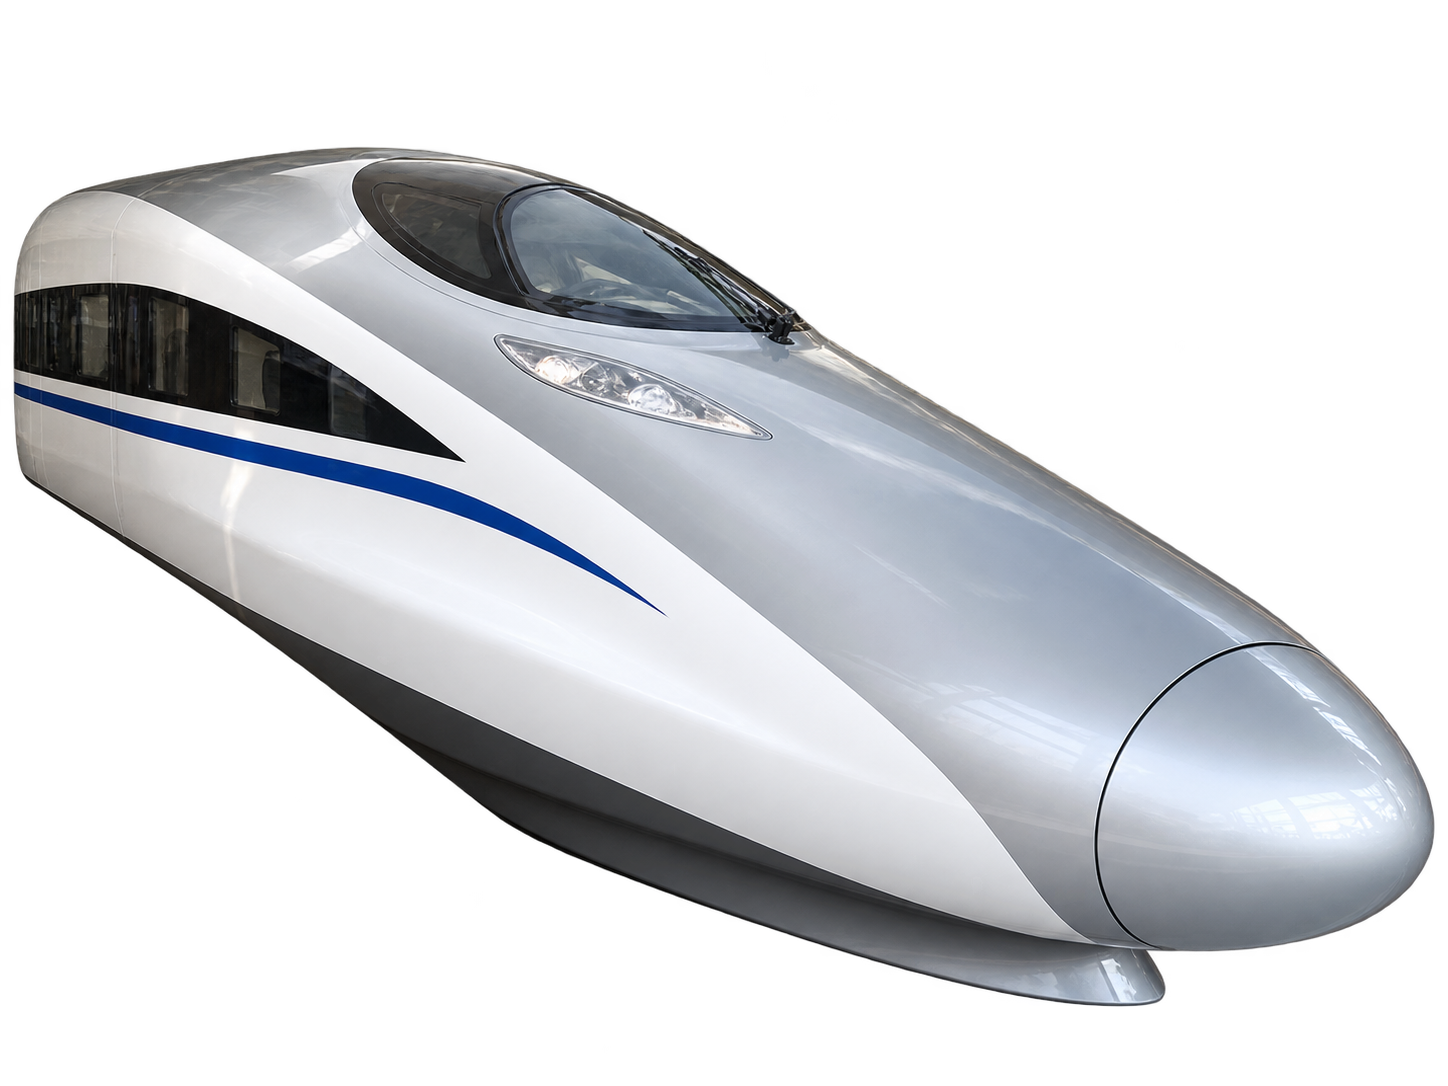
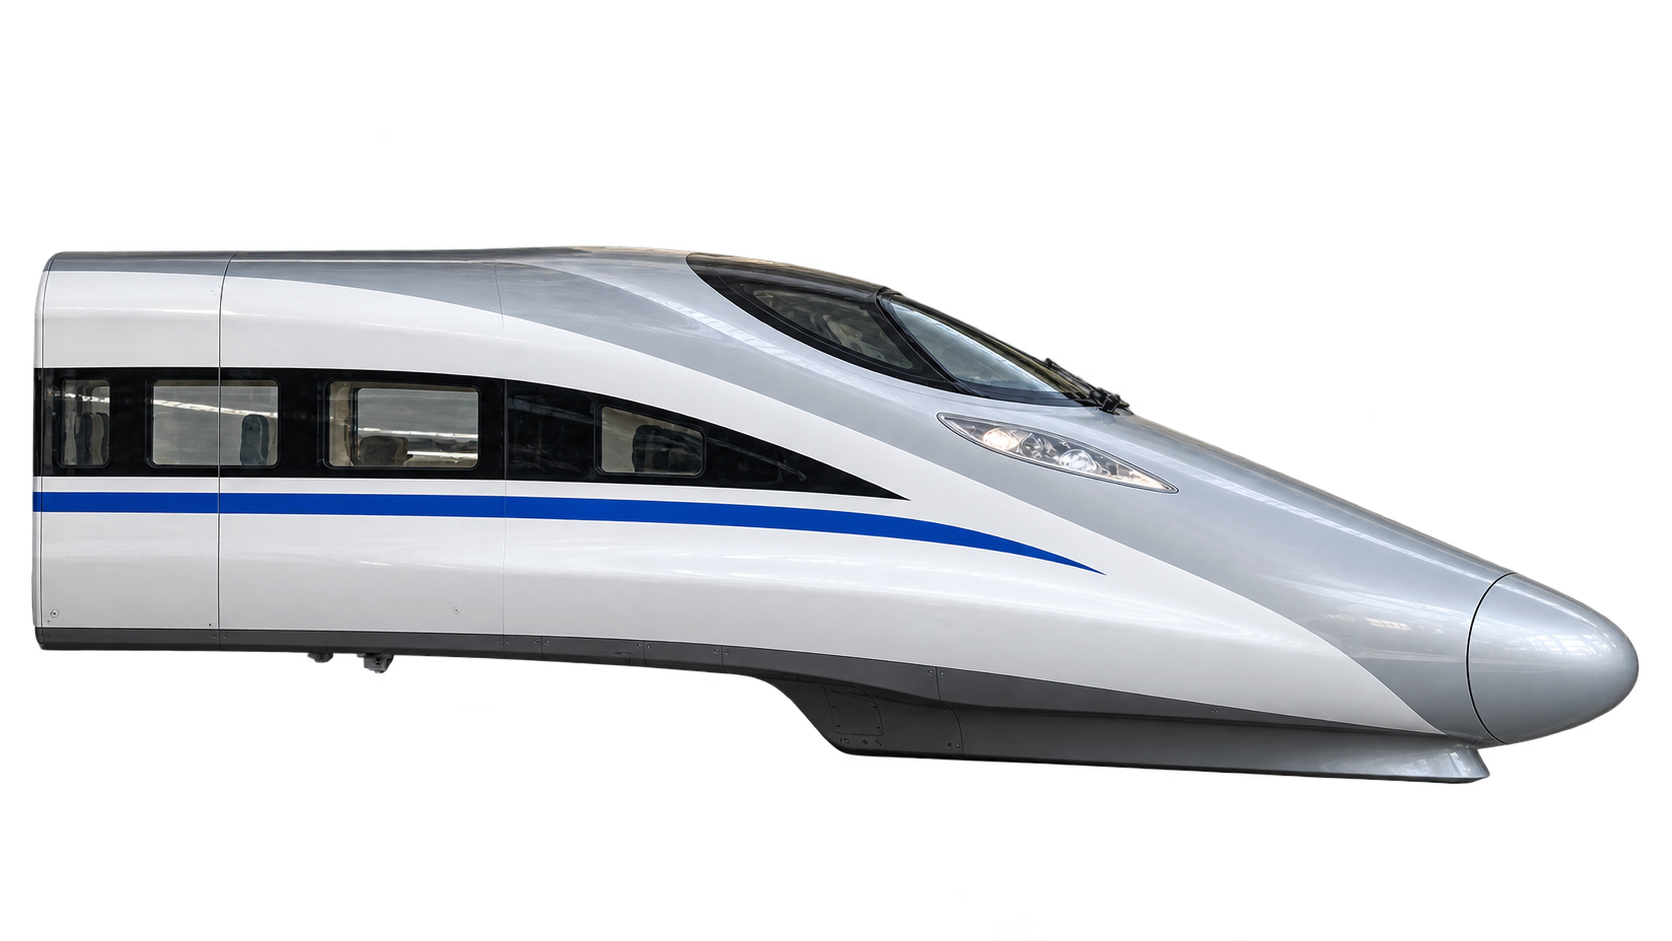
Update train image layout

diff --git a/_projects/sparse-train-reconstruction.md b/_projects/sparse-train-reconstruction.md
@@ -10,8 +10,8 @@ permalink: /projects/sparse-train-reconstruction/
 This project investigated 3D reconstruction of streamlined high-speed train head geometry from sparse LiDAR observations. A portable sensing system combining LiDAR, cameras, and an IMU was used for data acquisition, with FAST-LIVO2 serving as the multi-sensor SLAM backbone. The objective was not simply to obtain a point cloud, but to recover a sufficiently continuous geometric representation for subsequent surface reconstruction.
 
 <div class="row row-cols-1 row-cols-md-2 g-4 my-4">
-  <div class="col"><figure class="mb-0 border rounded p-2 h-100"><div class="d-flex align-items-center" style="aspect-ratio: 832 / 357"><img class="img-fluid rounded" style="width: 100%; height: 100%; object-fit: contain" src="{{ '/assets/img/train-reconstruction/01_train_head_photo.png' | relative_url }}" alt="Physical high-speed train head"></div><figcaption class="text-muted small mt-2">Physical high-speed train head.</figcaption></figure></div>
-  <div class="col"><figure class="mb-0 border rounded p-2 h-100"><img class="img-fluid rounded" src="{{ '/assets/img/train-reconstruction/02_sparse_lidar_scan.png' | relative_url }}" alt="Sparse LiDAR scan of the high-speed train head"><figcaption class="text-muted small mt-2">Sparse LiDAR reconstruction; missing returns are especially visible around glass-window regions.</figcaption></figure></div>
+  <div class="col"><figure class="mb-0 border rounded p-2 h-100"><div class="d-flex align-items-center" style="aspect-ratio: 1672 / 941"><img class="img-fluid rounded" style="width: 100%; height: 100%; object-fit: contain" src="{{ '/assets/img/train-reconstruction/01_train_head_photo.png' | relative_url }}" alt="Physical high-speed train head"></div><figcaption class="text-muted small mt-2">Physical high-speed train head.</figcaption></figure></div>
+  <div class="col"><figure class="mb-0 border rounded p-2 h-100"><div class="d-flex align-items-center" style="aspect-ratio: 1672 / 941"><img class="img-fluid rounded" style="width: 100%; height: 100%; object-fit: contain" src="{{ '/assets/img/train-reconstruction/02_sparse_lidar_scan.png' | relative_url }}" alt="Sparse LiDAR scan of the high-speed train head"></div><figcaption class="text-muted small mt-2">Sparse LiDAR reconstruction; missing returns are especially visible around glass-window regions.</figcaption></figure></div>
 </div>
 
 ## Problem: Missing Regions Are Not Ordinary Noise
